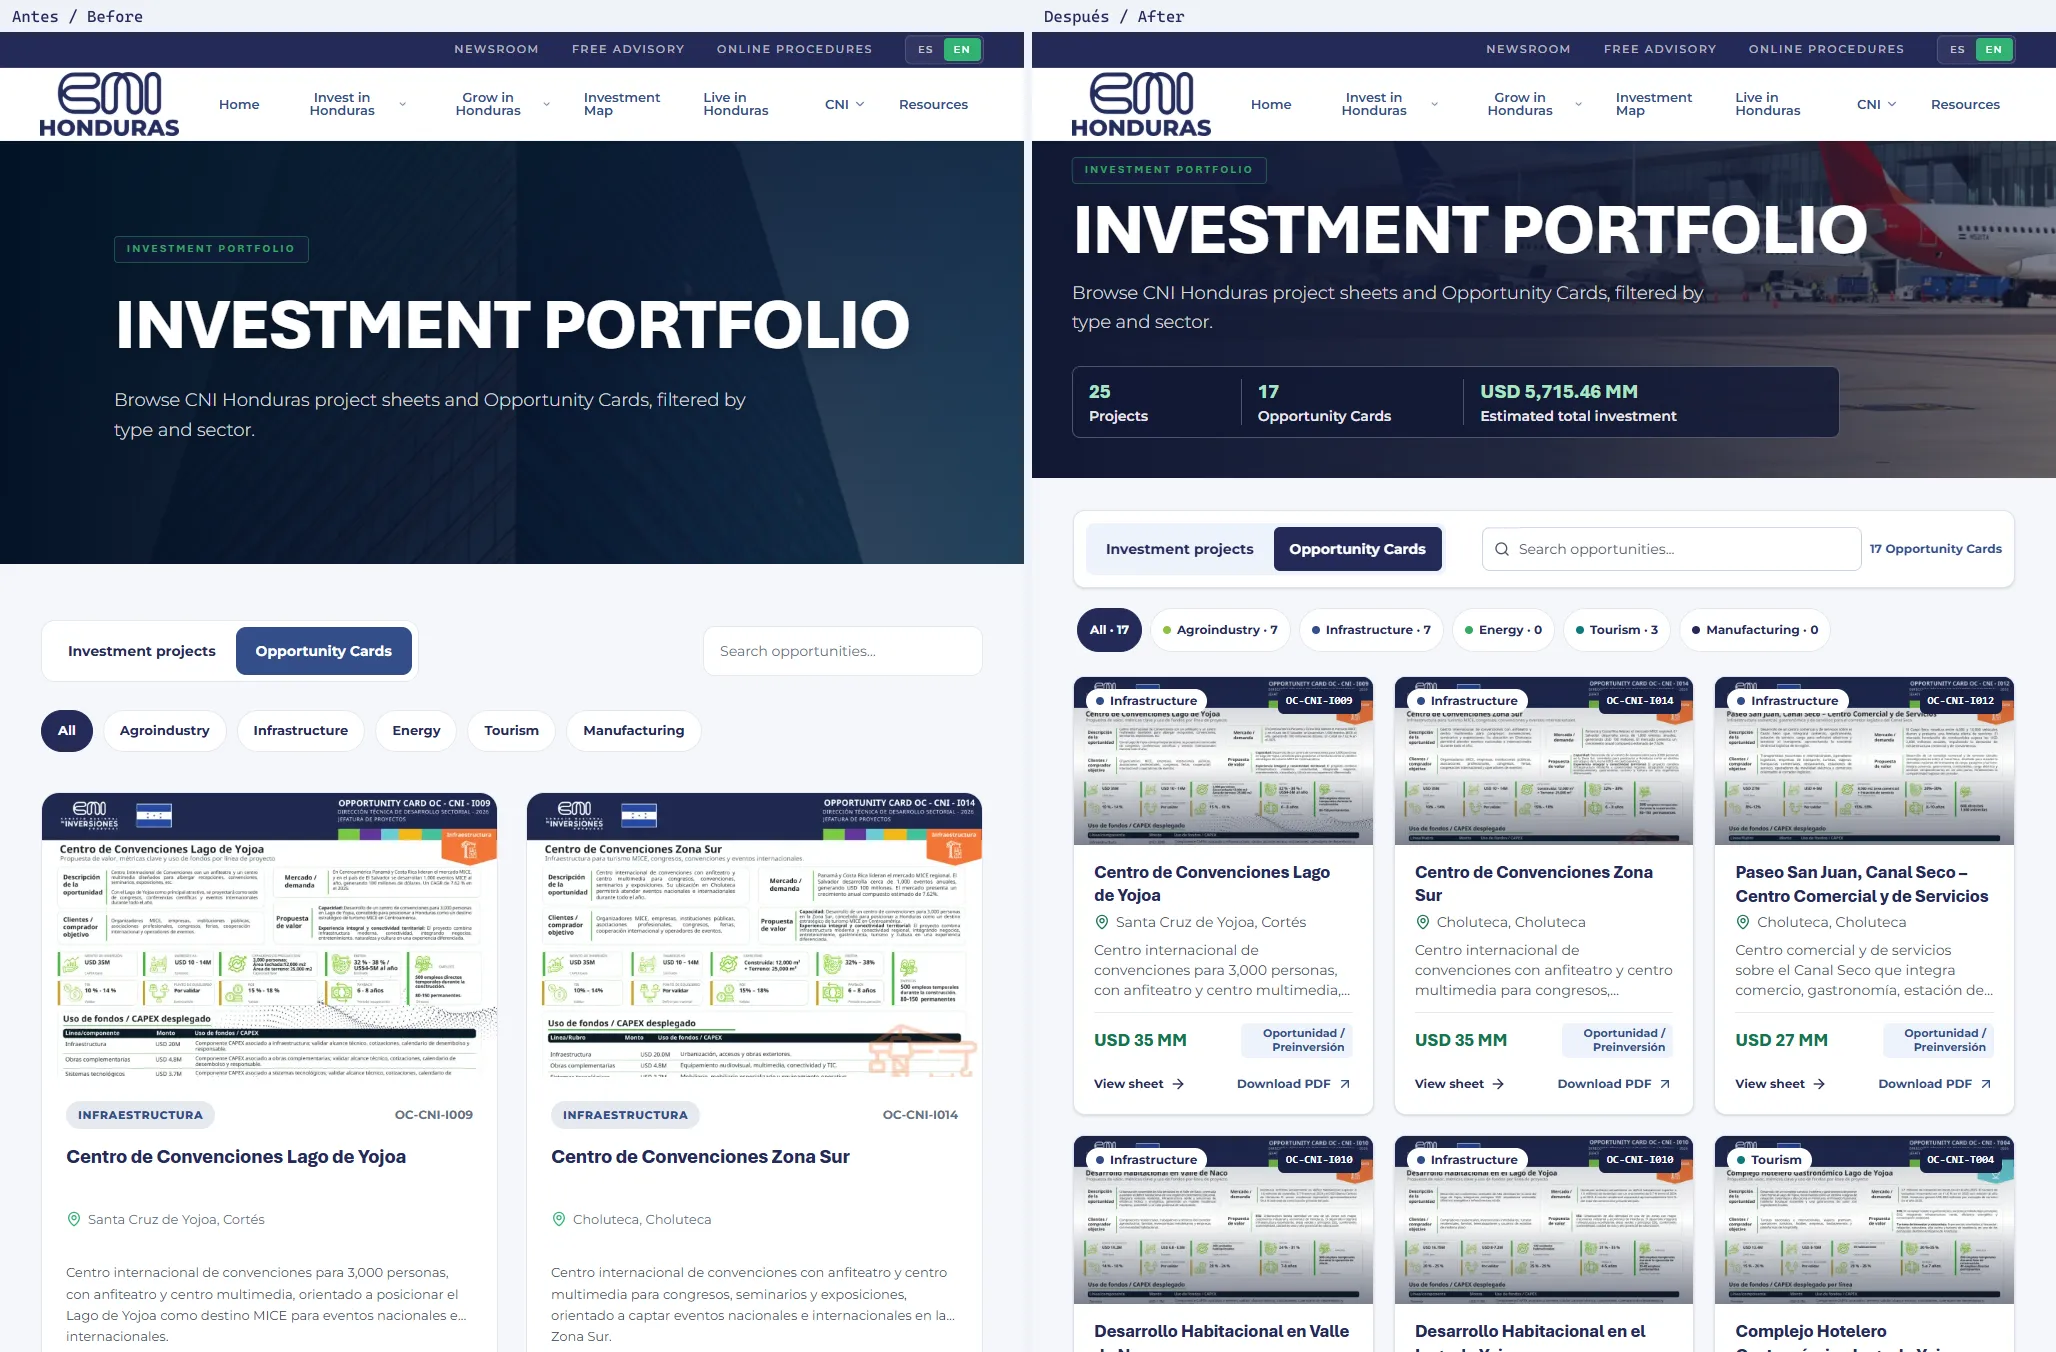
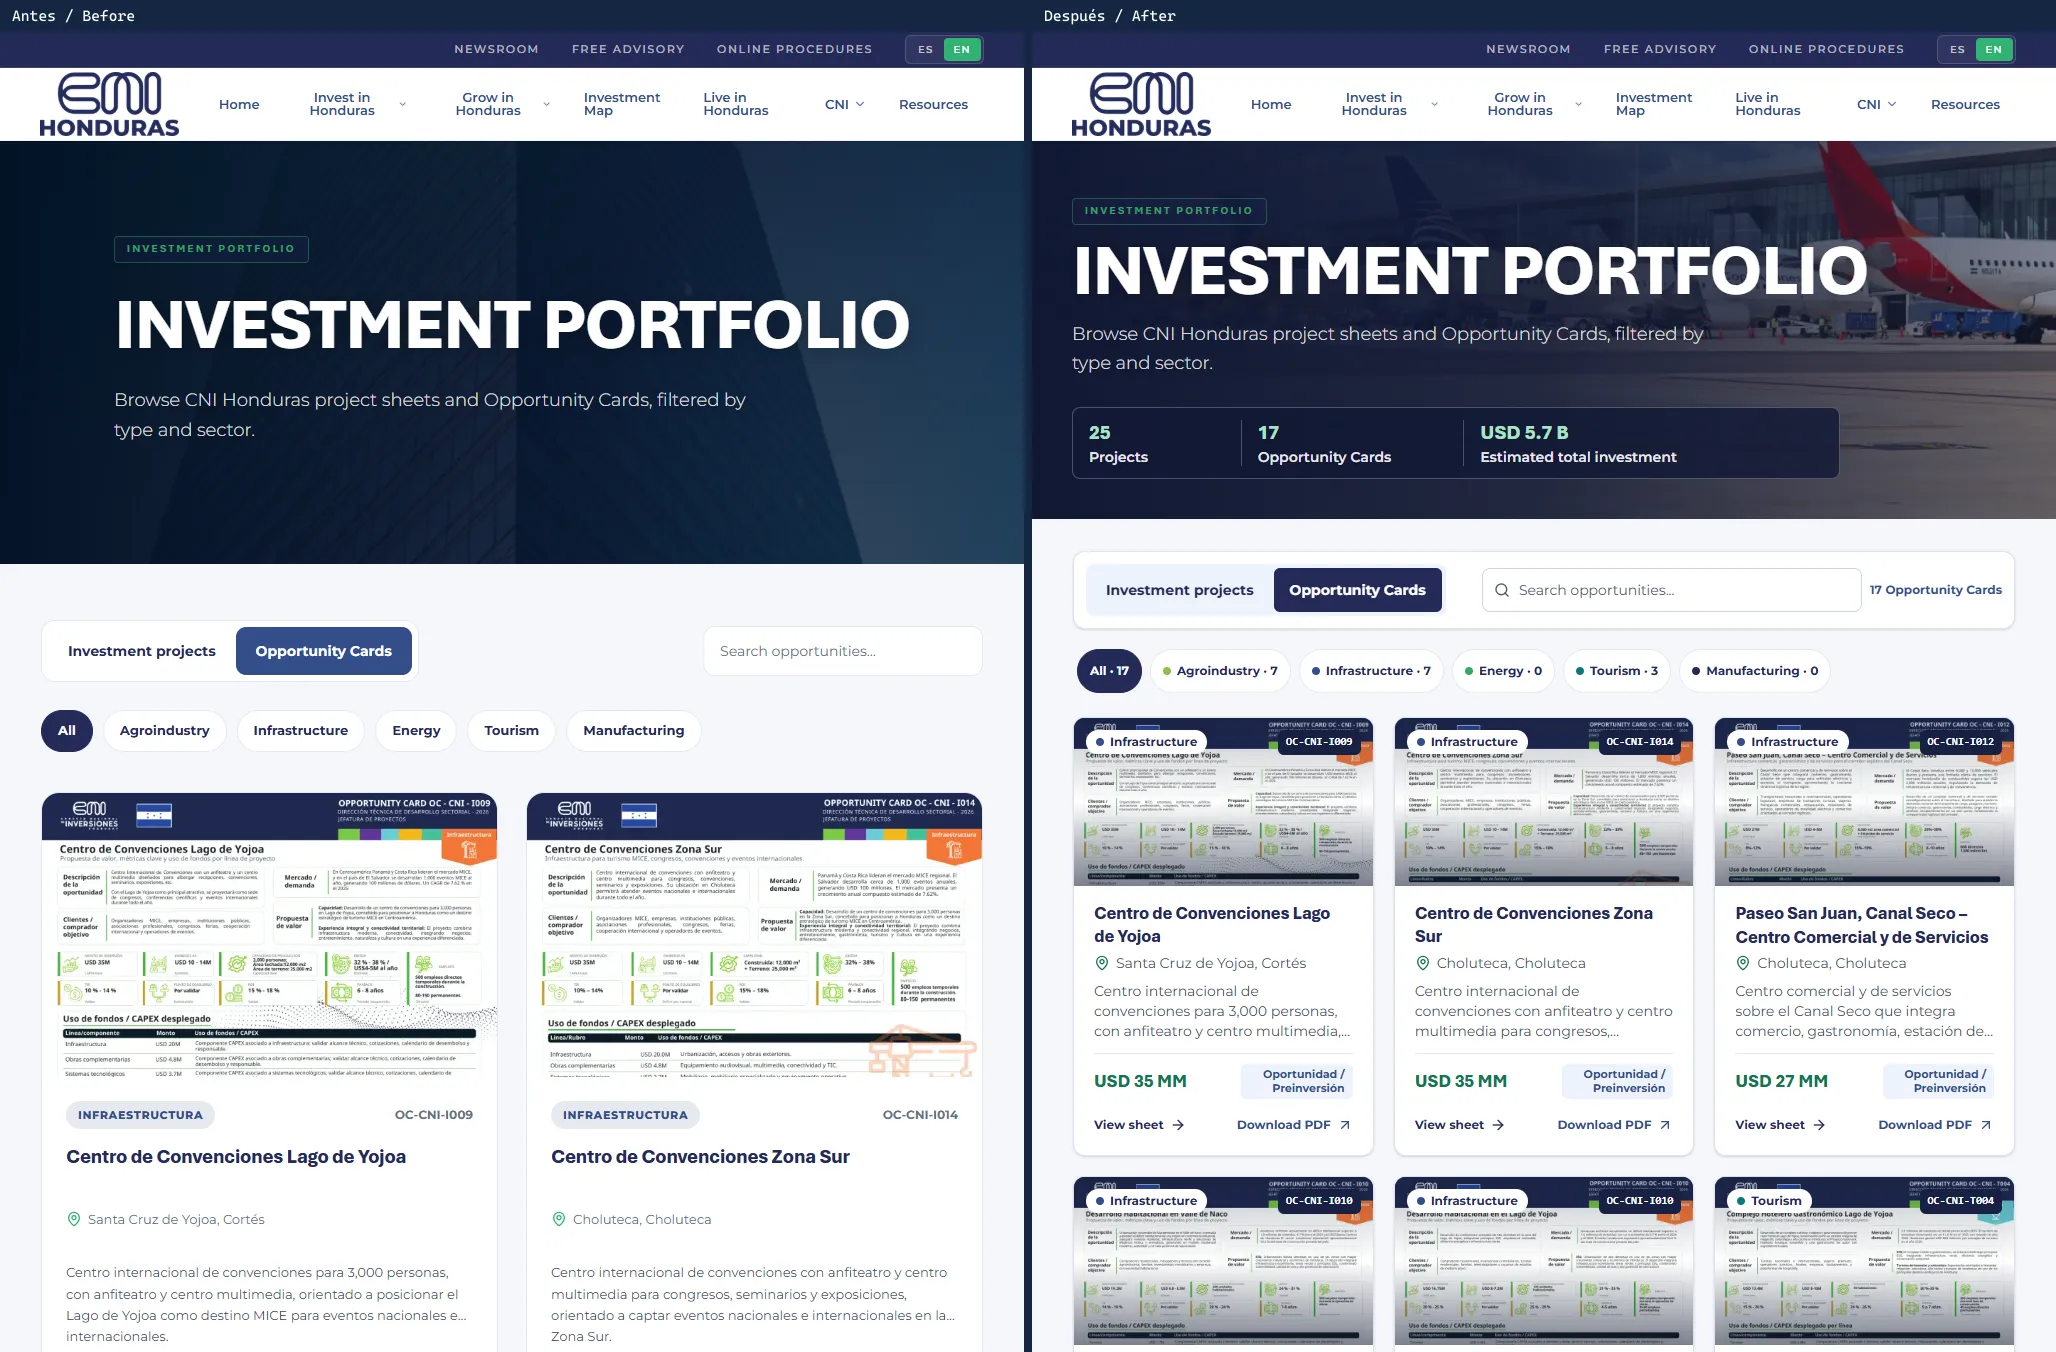
fix(portfolio): localize amounts and offset the sticky controls

Changed region(s): [[0.0, 0.0, 1.0, 1.0]]

diff --git a/frontend/src/app/[locale]/portafolio/page.tsx b/frontend/src/app/[locale]/portafolio/page.tsx
@@ -13,7 +13,7 @@ import {
   parseUnifiedFilters,
   projectToCatalogItem,
 } from "@/src/lib/portfolioCatalog";
-import { formatUsdShort } from "@/src/lib/formatUsdShort";
+import { formatUsdPortfolioTotal } from "@/src/lib/formatUsdShort";
 import type { InvestmentOpportunity, InvestmentProject } from "@/src/types/investment";
 import type { CmsDocument } from "@/src/types/cms";
 import type { UnifiedPortfolioTab } from "@/src/lib/portfolioCatalog";
@@ -70,7 +70,7 @@ export default async function PortafolioPage({
     {
       label: locale === "es" ? "Inversión total estimada" : "Estimated total investment",
       value: completeCatalog
-        ? formatUsdShort(locale, [...projects, ...opportunities].reduce((total, item) => total + item.amountUsd, 0))
+        ? formatUsdPortfolioTotal(locale, [...projects, ...opportunities].reduce((total, item) => total + item.amountUsd, 0))
         : "—",
     },
   ];
@@ -81,7 +81,7 @@ export default async function PortafolioPage({
   };
 
   return (
-    <div className="-mt-28 flex flex-1 flex-col bg-[#f5f7fb]">
+    <div className="-mt-[var(--cni-header-height)] flex flex-1 flex-col bg-[#f5f7fb]">
       <PageHero
         eyebrow={hero.eyebrow}
         title={hero.title}
@@ -89,7 +89,7 @@ export default async function PortafolioPage({
         imageSrc="/images/hero/home/logistica.webp"
         imageAlt=""
         compact
-        heightClass="min-h-[330px] pt-24 md:min-h-[450px] md:pt-28"
+        heightClass="min-h-[330px] pt-[calc(var(--cni-navbar-height,var(--cni-header-height))+1rem)] md:min-h-[450px]"
         imageClassName="absolute inset-0 object-cover object-center"
         overlayClassName="bg-gradient-to-r from-[#101834] via-[#101834]/90 to-[#101834]/55"
       >

diff --git a/frontend/src/lib/formatUsdShort.test.ts b/frontend/src/lib/formatUsdShort.test.ts
@@ -1,19 +1,27 @@
 import { describe, expect, it } from "vitest";
-import { formatUsdShort } from "./formatUsdShort";
+import { formatUsdPortfolioTotal, formatUsdShort } from "./formatUsdShort";
 
 describe("formatUsdShort", () => {
   it("formats millions consistently in both locales", () => {
-    expect(formatUsdShort("es", 1_702_400_000)).toBe("USD 1.702,4 MM");
+    expect(formatUsdShort("es", 1_702_400_000)).toBe("USD 1,702.4 MM");
     expect(formatUsdShort("en", 1_702_400_000)).toBe("USD 1,702.4 MM");
   });
 
   it("preserves an approximation and handles smaller amounts", () => {
     expect(formatUsdShort("en", 450_000_000, "~USD 450 MM")).toBe("~USD 450 MM");
-    expect(formatUsdShort("es", 850_000)).toBe("USD 850.000");
+    expect(formatUsdShort("es", 850_000)).toBe("USD 850,000");
   });
 
   it("keeps the source copy when a numeric amount is unavailable", () => {
     expect(formatUsdShort("es", 0, "Por definir")).toBe("Por definir");
     expect(formatUsdShort("en", 0)).toBe("—");
+  });
+});
+
+describe("formatUsdPortfolioTotal", () => {
+  it("uses compact billions for the hero", () => {
+    expect(formatUsdPortfolioTotal("es", 5_715_460_000)).toBe("USD 5.7 mil MM");
+    expect(formatUsdPortfolioTotal("en", 5_715_460_000)).toBe("USD 5.7 B");
+    expect(formatUsdPortfolioTotal("es", 450_000_000)).toBe("USD 450 MM");
   });
 });

diff --git a/frontend/src/lib/formatUsdShort.ts b/frontend/src/lib/formatUsdShort.ts
@@ -1,12 +1,22 @@
 import type { Locale } from "@/src/i18n/config";
 
+function formatNumber(locale: Locale, value: number, maximumFractionDigits: number): string {
+  return new Intl.NumberFormat(locale === "es" ? "es-HN" : "en-US", {
+    useGrouping: "always",
+    maximumFractionDigits,
+  }).format(value);
+}
+
 export function formatUsdShort(locale: Locale, amountUsd: number, original = ""): string {
   if (!Number.isFinite(amountUsd) || amountUsd <= 0) return original.trim() || "—";
   const approx = /^[~≈]/.test(original.trim()) ? "~" : "";
   const isMillion = amountUsd >= 1_000_000;
-  const amount = new Intl.NumberFormat(locale === "es" ? "es-ES" : "en-US", {
-    useGrouping: "always",
-    maximumFractionDigits: isMillion ? 2 : 0,
-  }).format(isMillion ? amountUsd / 1_000_000 : amountUsd);
+  const amount = formatNumber(locale, isMillion ? amountUsd / 1_000_000 : amountUsd, isMillion ? 2 : 0);
   return `${approx}USD ${amount}${isMillion ? " MM" : ""}`;
+}
+
+export function formatUsdPortfolioTotal(locale: Locale, amountUsd: number): string {
+  if (!Number.isFinite(amountUsd) || amountUsd < 1_000_000_000) return formatUsdShort(locale, amountUsd);
+  const billions = formatNumber(locale, amountUsd / 1_000_000_000, 1);
+  return `USD ${billions} ${locale === "es" ? "mil MM" : "B"}`;
 }

diff --git a/frontend/src/components/layout/Navbar.tsx b/frontend/src/components/layout/Navbar.tsx
@@ -234,6 +234,20 @@ export default function Navbar() {
   const mobilePanelRef = useRef<HTMLDivElement | null>(null);
   const wasMobileOpen = useRef(false);
 
+  useEffect(() => {
+    const header = navRef.current;
+    if (!header) return;
+    const root = document.documentElement;
+    const syncHeight = () => root.style.setProperty("--cni-navbar-height", `${header.getBoundingClientRect().height}px`);
+    const observer = new ResizeObserver(syncHeight);
+    syncHeight();
+    observer.observe(header);
+    return () => {
+      observer.disconnect();
+      root.style.removeProperty("--cni-navbar-height");
+    };
+  }, []);
+
   const closeMenus = useCallback(() => {
     setOpenDropdownId(null);
     setFlyoutOpenId(null);

diff --git a/frontend/src/components/cni/PortfolioCatalogClient.tsx b/frontend/src/components/cni/PortfolioCatalogClient.tsx
@@ -113,7 +113,7 @@ export function PortfolioCatalogClient({
   return (
     <div className="bg-[#f5f7fb]">
       <div className="mx-auto w-[92%] max-w-[1500px] pb-24 pt-5 sm:pt-8">
-        <div className="mb-4 rounded-xl border border-[#dce3ee] bg-white p-2.5 shadow-sm lg:sticky lg:top-[var(--cni-header-height)] lg:z-30 lg:p-3">
+        <div className="mb-4 rounded-xl border border-[#dce3ee] bg-white p-2.5 shadow-sm lg:sticky lg:top-[calc(var(--cni-navbar-height,var(--cni-header-height))+0.5rem)] lg:z-30 lg:p-3">
           <div className="flex flex-col gap-3 lg:flex-row lg:items-center lg:justify-between">
             <div
               className="grid grid-cols-2 gap-1 rounded-lg bg-[#edf2fb] p-1 lg:flex"

diff --git a/docs/development/cni-604-visual.md b/docs/development/cni-604-visual.md
@@ -13,4 +13,7 @@ Playwright tomó las capturas sobre builds locales de producción con el mismo s
 
 A 390 px el hero mide 330 px. La tarjeta de mayor altura en cada pestaña midió 466 px en Proyectos y 472 px en Opportunity Cards. En la primera fila de 1440 px los montos y enlaces quedaron alineados en las tres tarjetas, en ambos idiomas. Tab y Enter llevaron a la ficha de oportunidad en ES y EN.
 
-Lighthouse móvil 12.8.2 en `/portafolio`, sobre el build local con el seed, registró Accesibilidad **100/100** y **CLS 0.000**. Pasaron las 352 pruebas unitarias, incluidas las pruebas existentes de filtros y las nuevas de formato monetario.
+Lighthouse móvil 12.8.2 en `/portafolio`, sobre el build local con el seed, registró Accesibilidad **100/100** y **CLS 0.000**. Pasaron las 353 pruebas unitarias, incluidas las pruebas existentes de filtros y las nuevas de formato monetario.
+
+
+En la revisión del PR, Playwright verificó que el panel fijo queda 8 px por debajo del encabezado a 1440 y 1024 px. Ambas pestañas reciben clics en ES y EN al desplazar la página. El hero muestra el total como `USD 5.7 mil MM` en español y `USD 5.7 B` en inglés, con 55 px o más entre el menú y su etiqueta en las resoluciones de la tabla. [Panel fijo a 1440 px](../assets/cni-604/1440-es-panel-fijo.webp)
